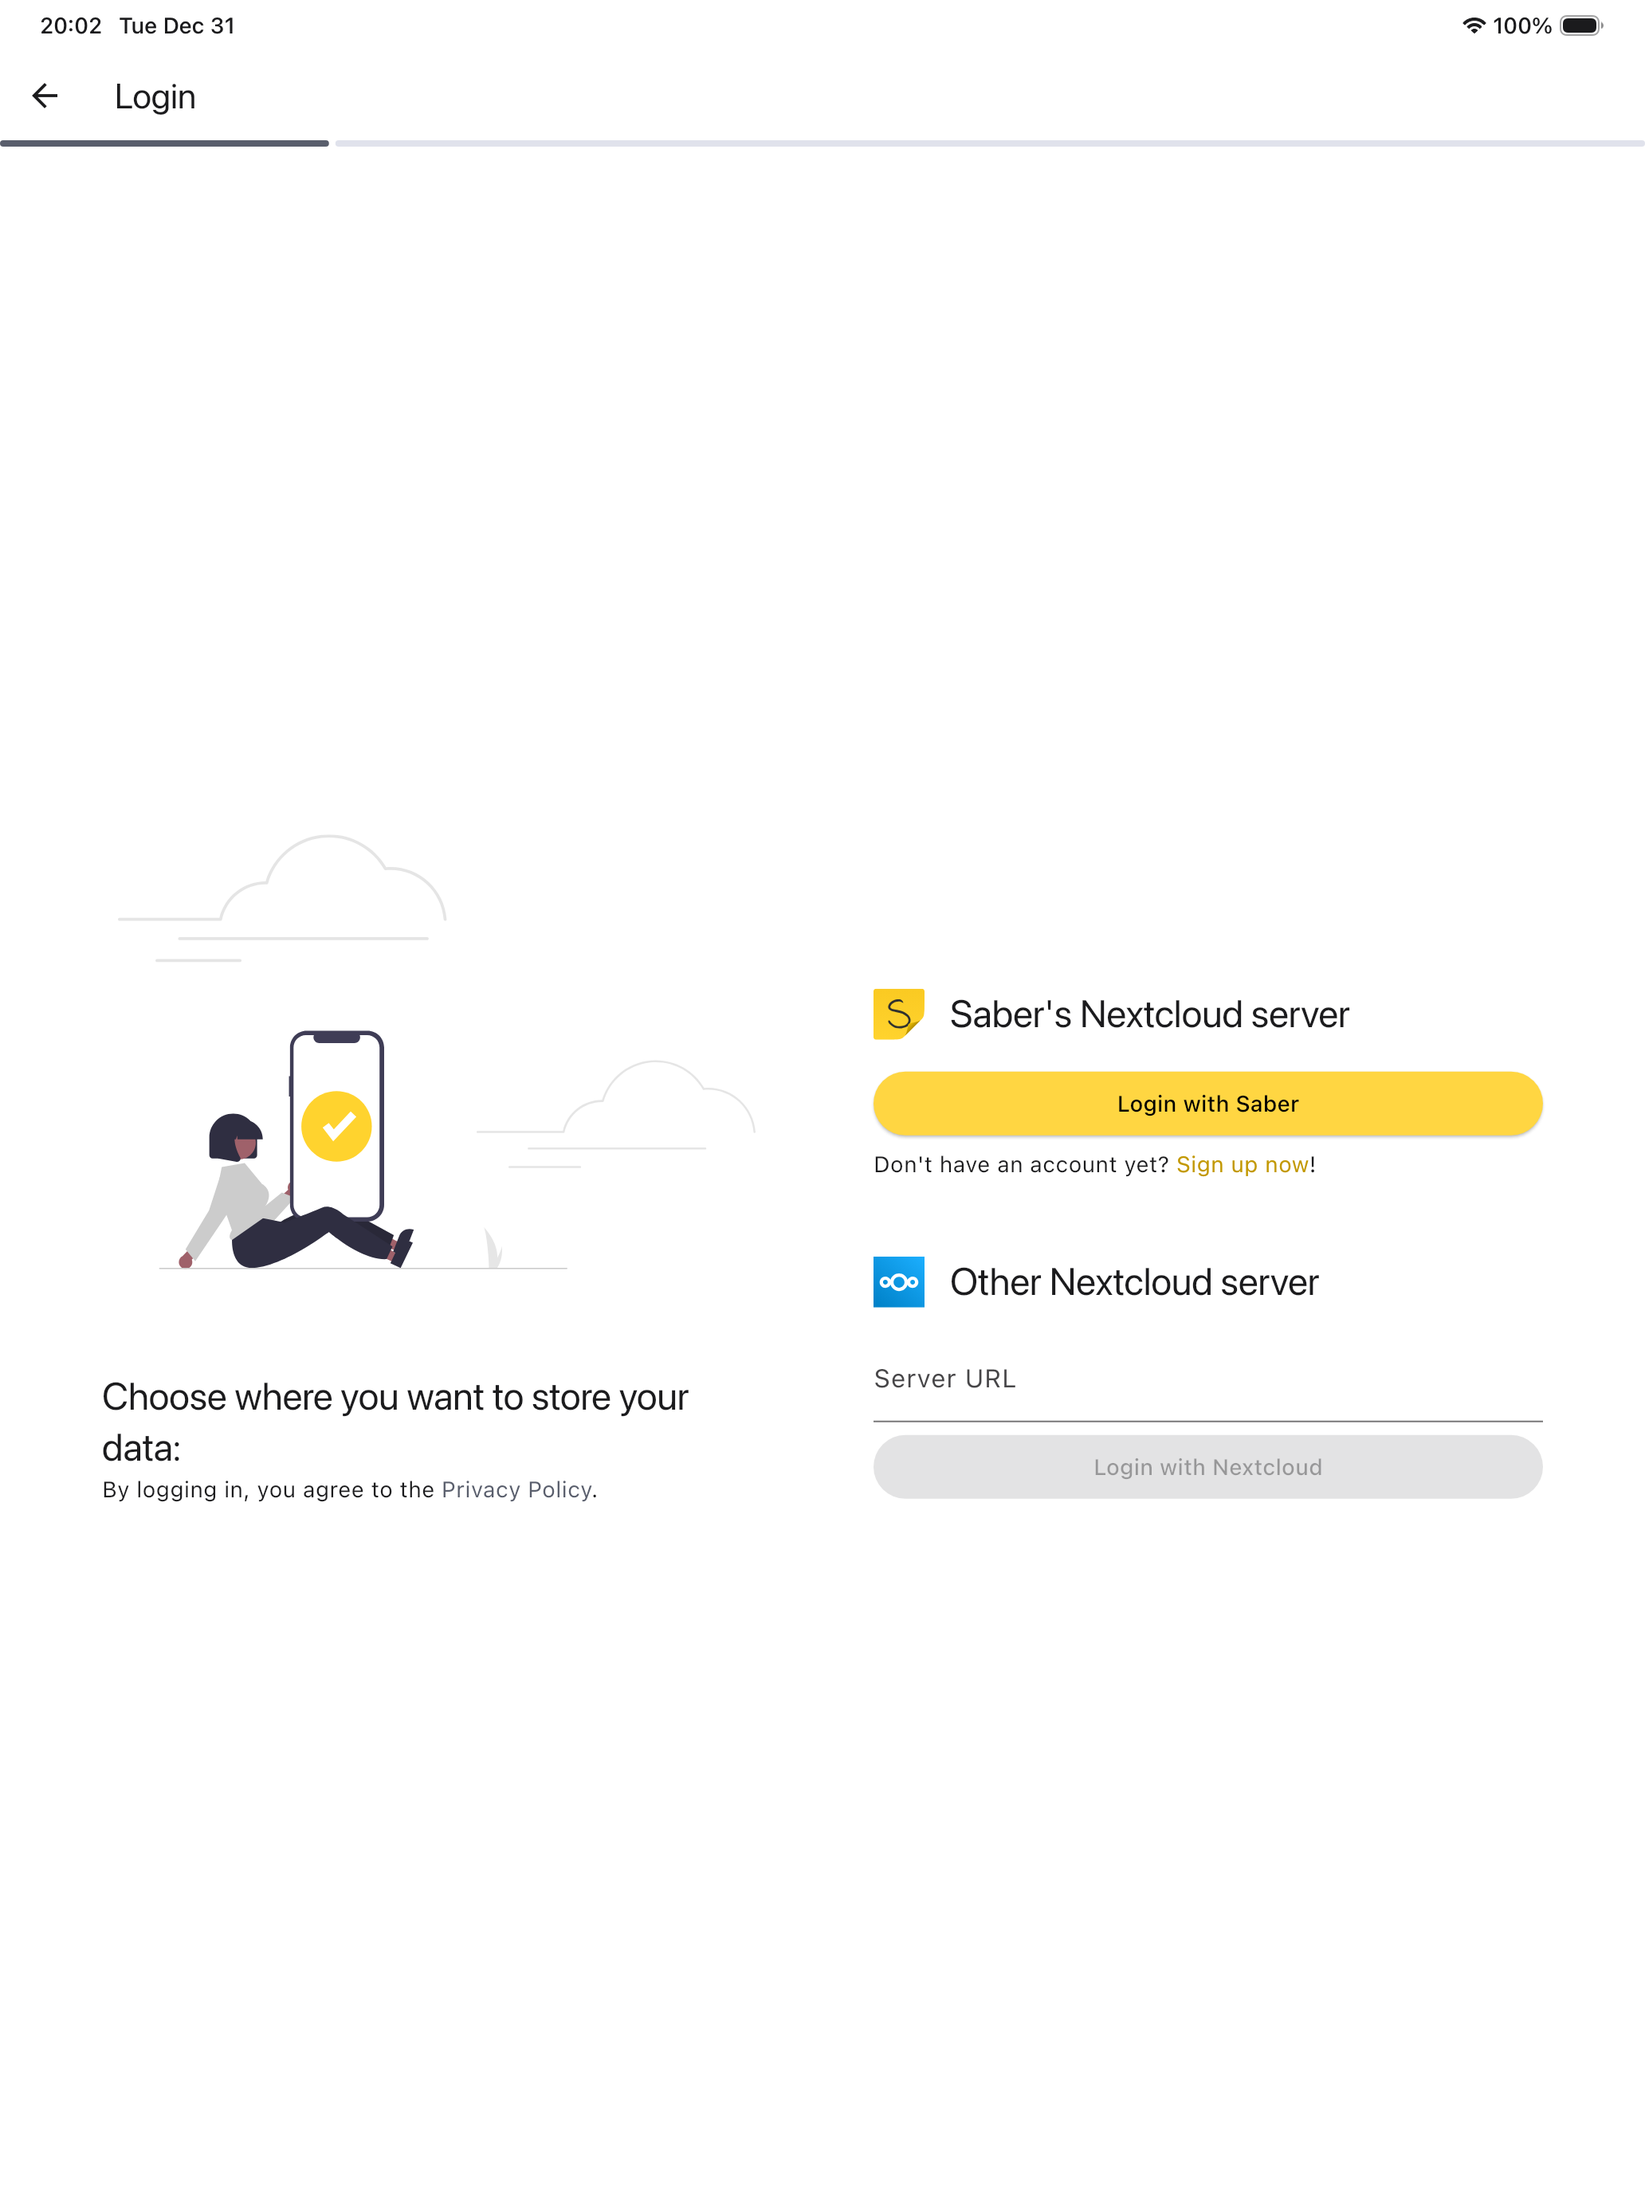
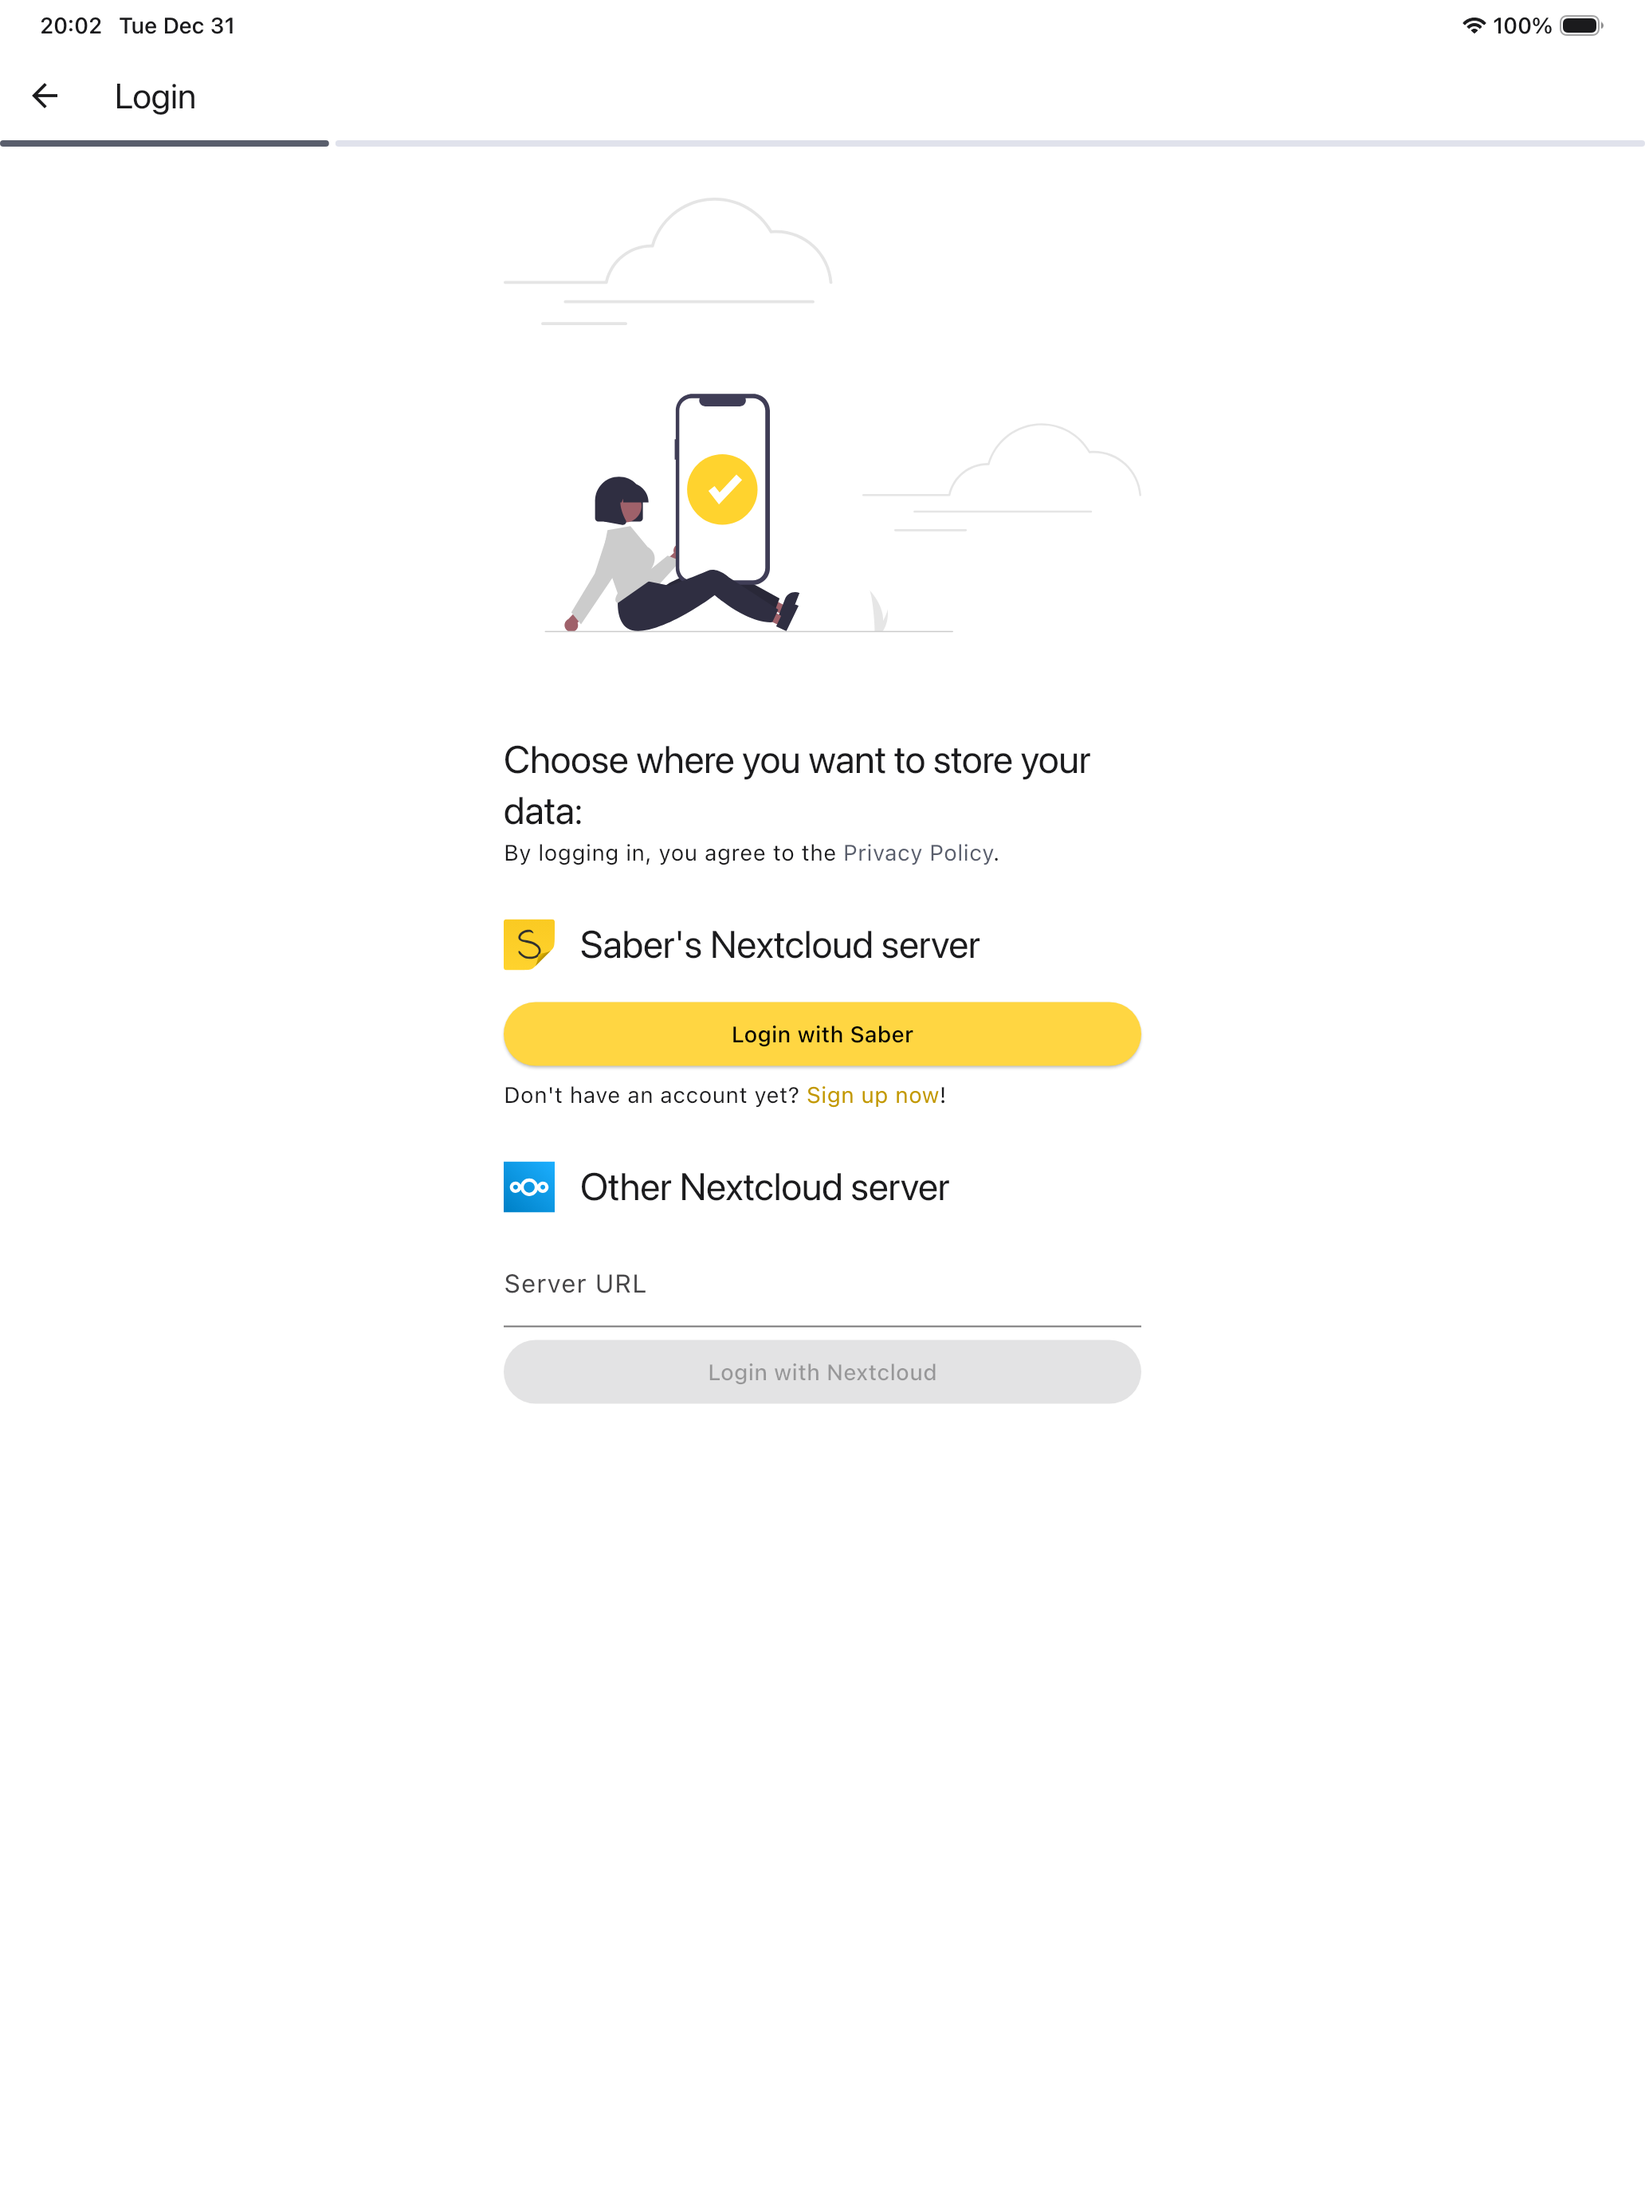
fix: don't use two columns if portrait

diff --git a/lib/components/nextcloud/nc_login_step.dart b/lib/components/nextcloud/nc_login_step.dart
@@ -392,7 +392,9 @@ class const _FakeDoneButton({required final Widget child}) extends HookWidget {
 bool _shouldUseTwoColumns(Size screenSize) {
   const minWidthForTwoColumns = _width * 2;
   const minHeightForTwoColumns = _width * 1.5;
-  return screenSize.width > minWidthForTwoColumns &&
+  final landscape = screenSize.width >= screenSize.height;
+  return landscape &&
+      screenSize.width > minWidthForTwoColumns &&
       screenSize.height > minHeightForTwoColumns;
 }
 
